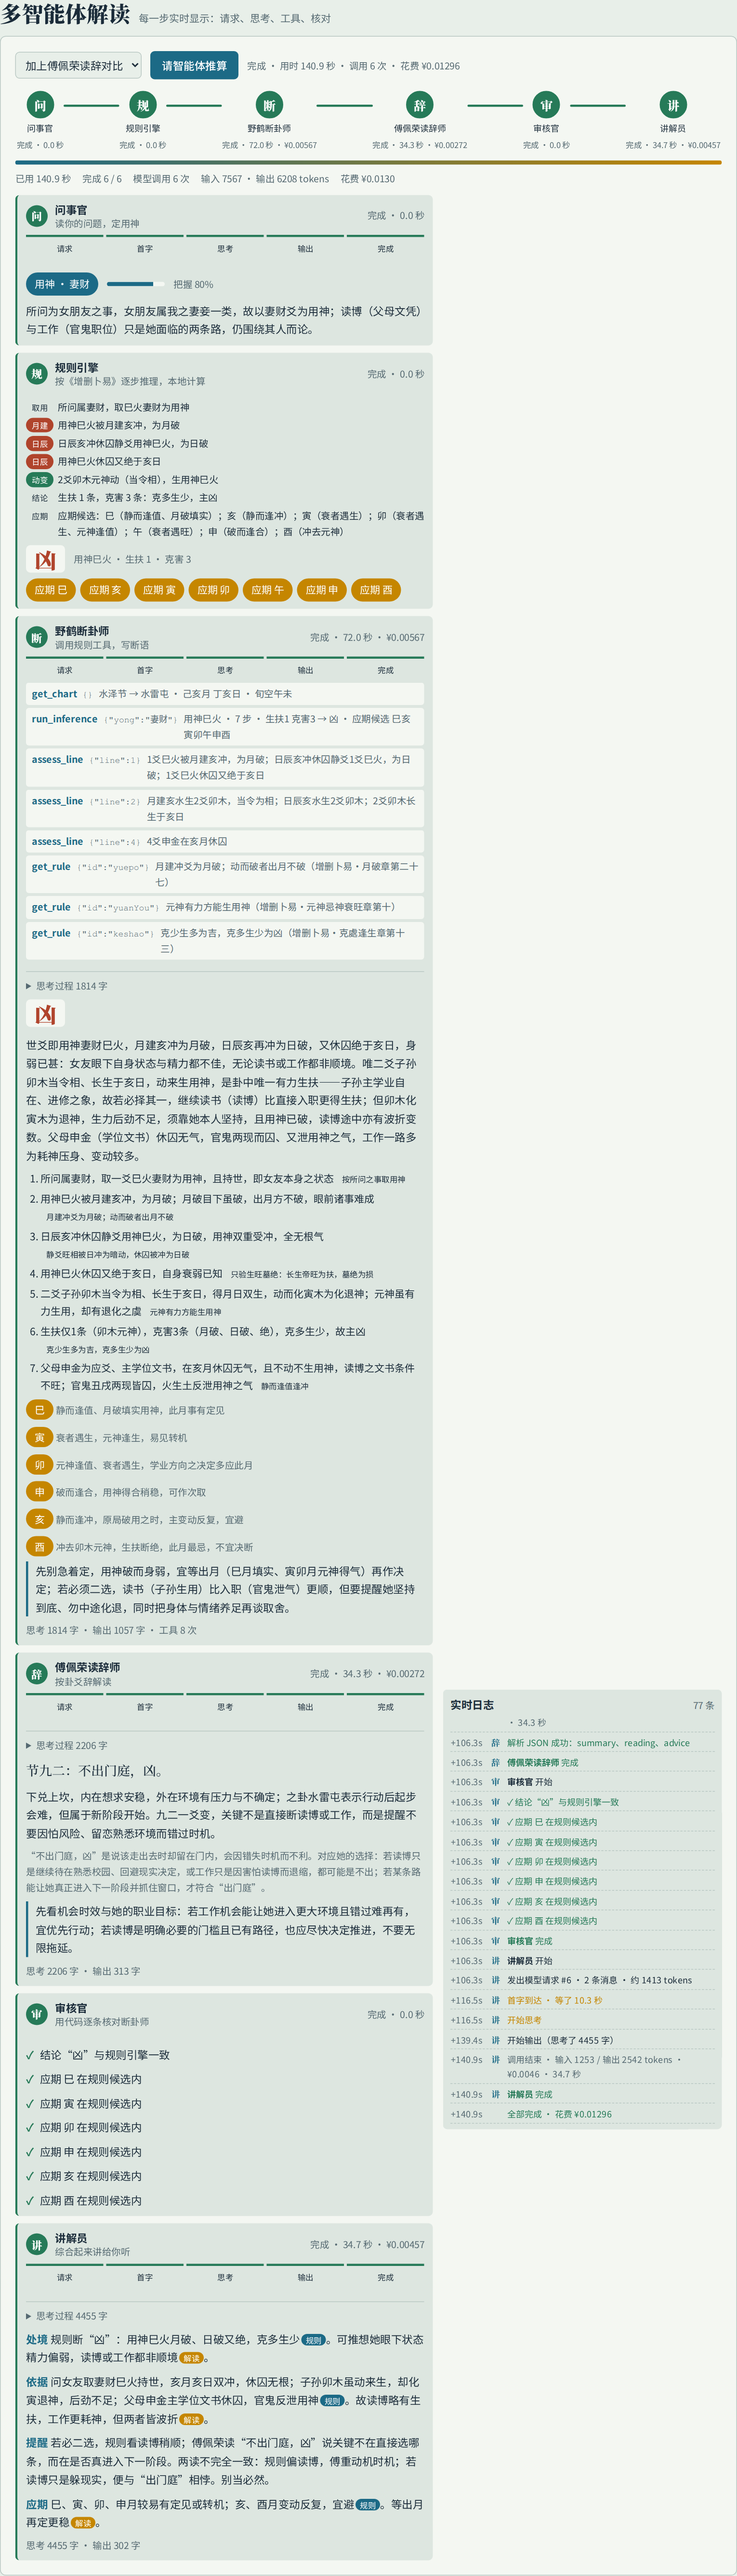
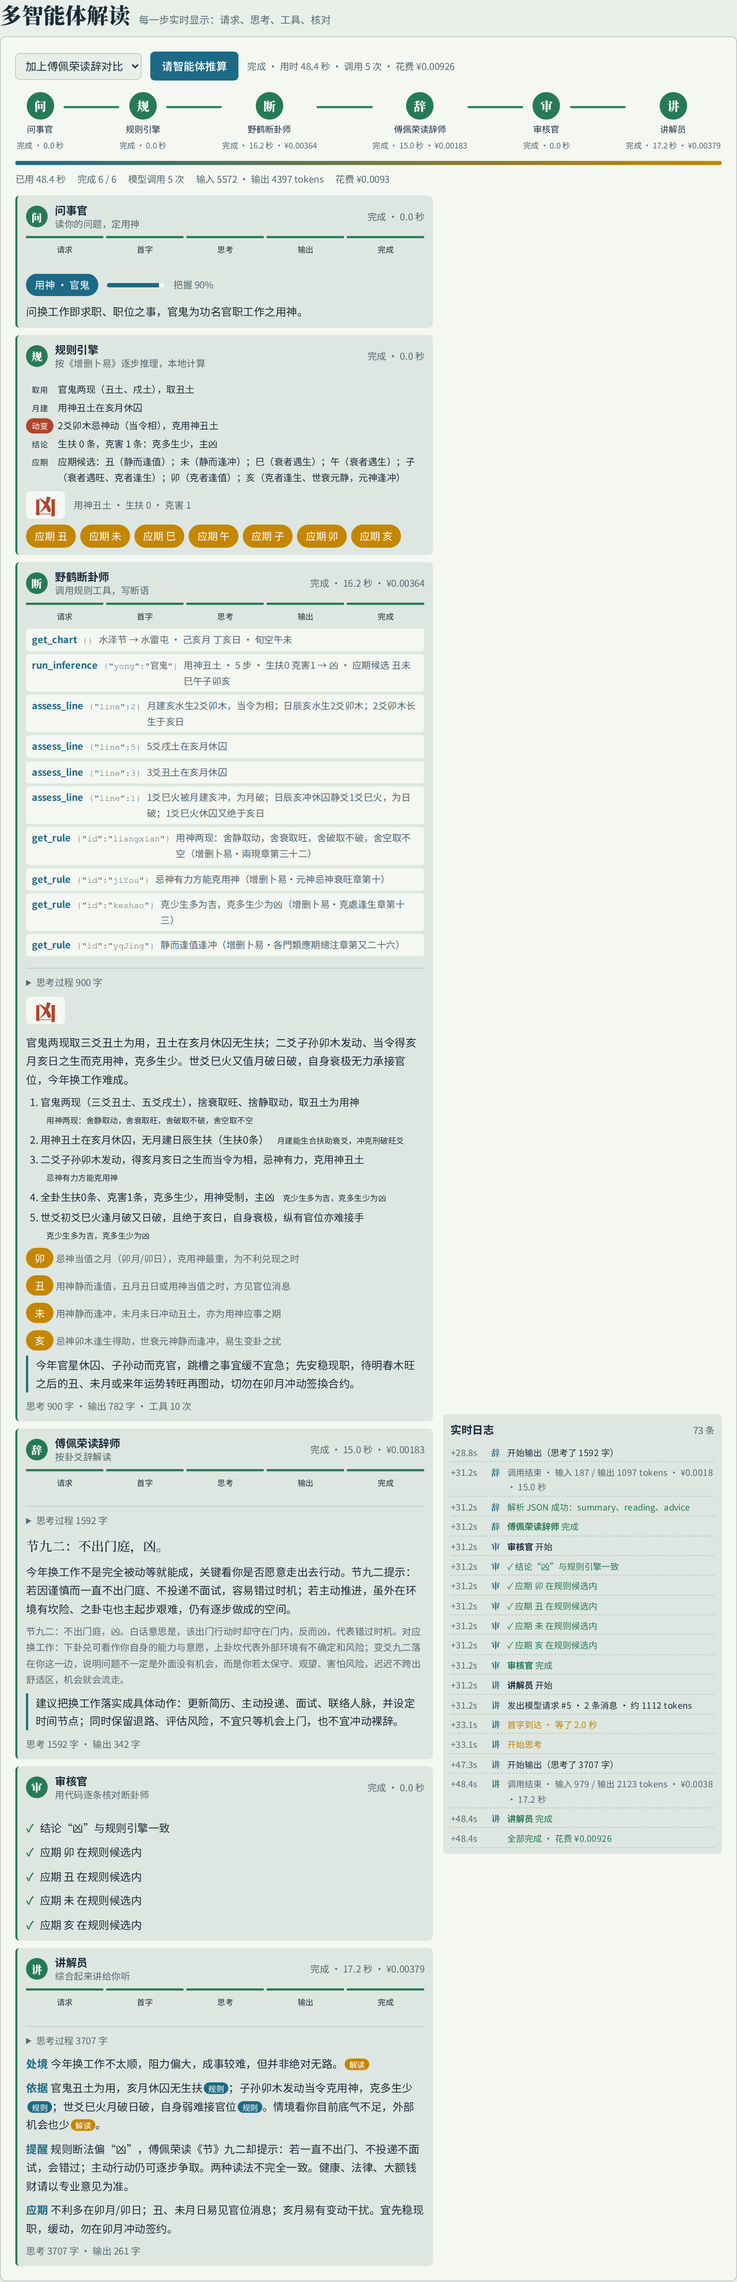
README：示例问题换成“今年换工作能成吗”，重截解析与实时面板截图

Changed region(s): [[0.0, 0.0, 0.983, 0.9939], [0.6144, 0.6212, 0.8294, 0.8386], [0.8601, 0.6522, 0.8908, 0.6833]]

diff --git a/README.md b/README.md
@@ -68,7 +68,7 @@
 
 ### 取用神：关键词表 vs 大模型
 
-取错用神，后面推得再对也没用。`data/yong_eval.json` 收了 68 题：A 组按《用神章》改写的问句，B 组书中卦例的原问，C 组现代口语（“女朋友要读博还是工作”“考公能上岸吗”）。评测模型 deepseek-v4.1-flash：
+取错用神，后面推得再对也没用。`data/yong_eval.json` 收了 68 题：A 组按《用神章》改写的问句，B 组书中卦例的原问，C 组现代口语（“朋友欠我两万块，这个月能还吗”“考公能上岸吗”）。评测模型 deepseek-v4.1-flash：
 
 | 方法 | A 用神章 | B 书中卦例 | C 现代口语 | 合计 |
 |---|---|---|---|---|
